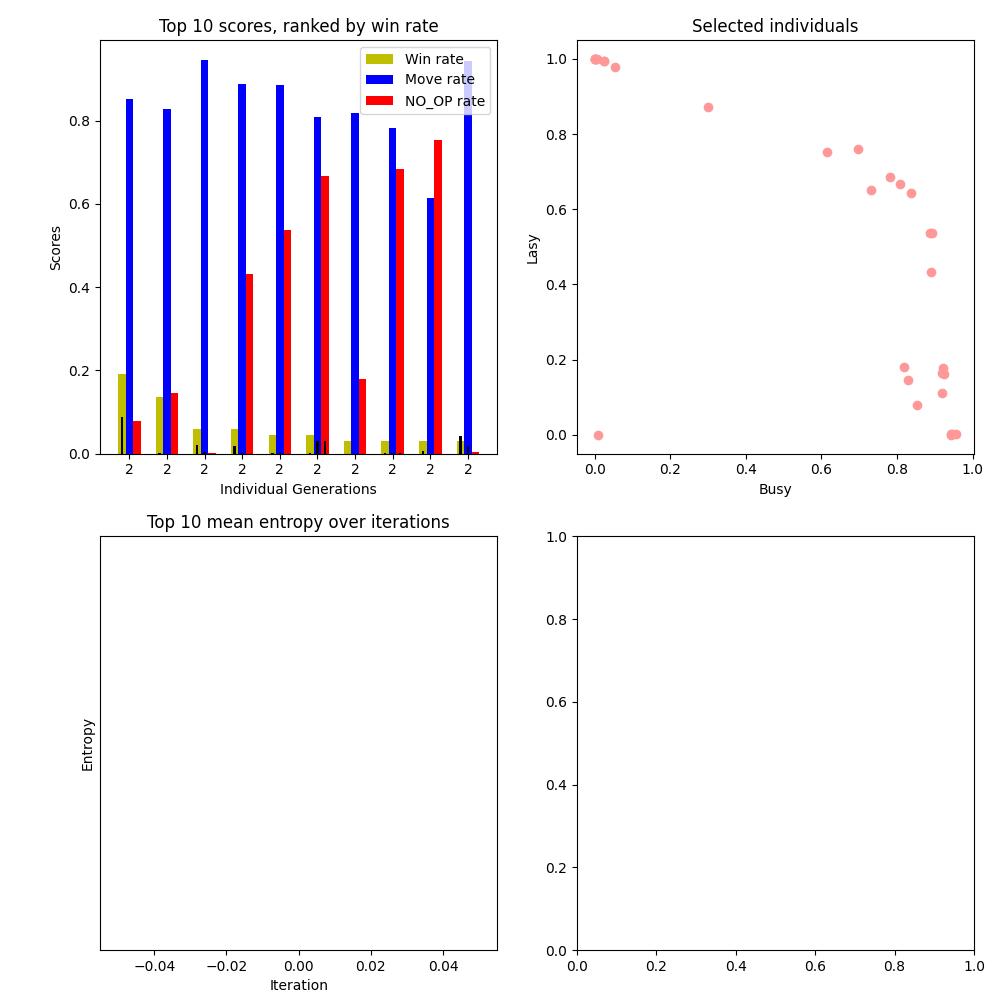
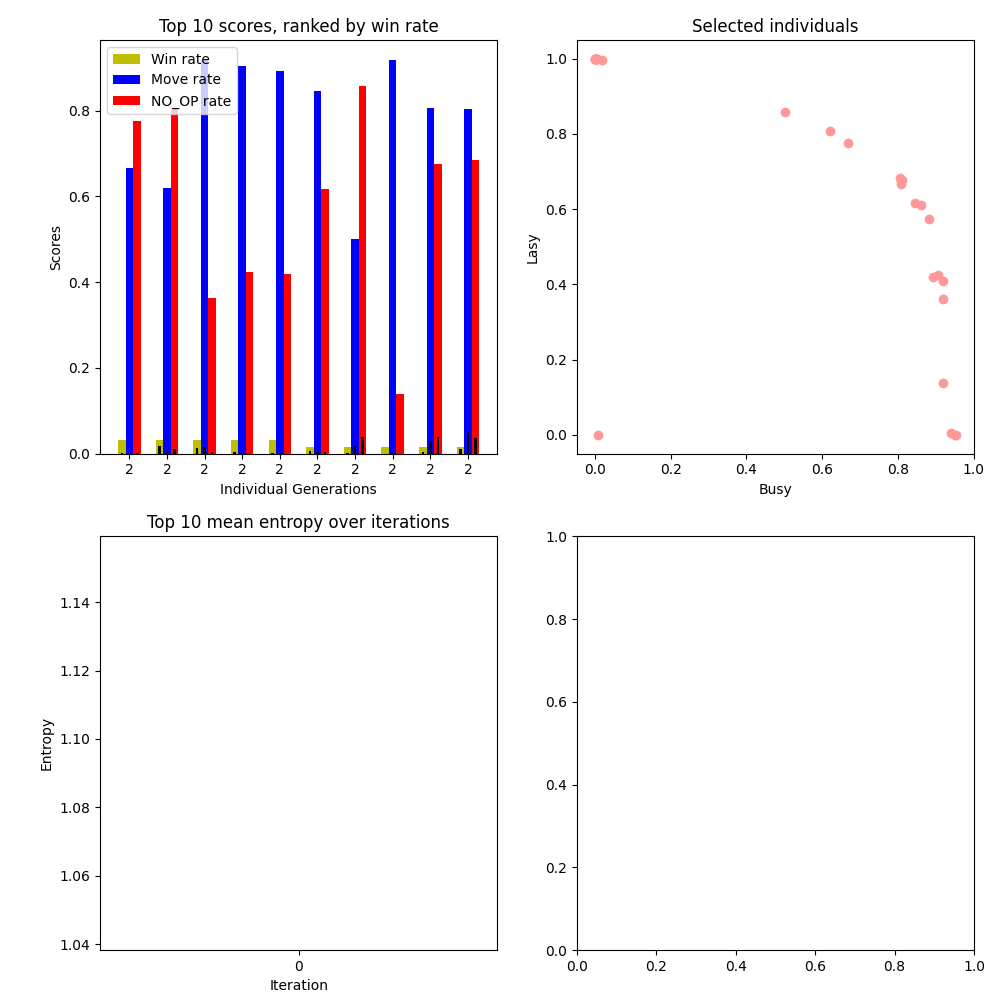
3-18

diff --git a/evolution_server.py b/evolution_server.py
@@ -25,7 +25,7 @@ import socket
 
 class EvolutionServer:
 
-    def __init__(self, ID, env_id='Pong-ram-v0', collector_ip=None, traj_length=128, batch_size=1, max_train=8,
+    def __init__(self, ID, env_id='Pong-ram-v0', collector_ip=None, traj_length=128, batch_size=1, max_train=7,
                  early_stop=7, round_length=200, min_eval=5000, subprocess=True, mutation_rate=0.5):
         if collector_ip is None:
             self.ip = socket.gethostbyname(socket.gethostname())

diff --git a/env_utils.py b/env_utils.py
@@ -38,7 +38,7 @@ class Pong(dict):
         return np.abs(np.float32(obs[4]) - last_pos)
 
     def is_no_op(self, action_id):
-        return action_id in [0]  # no act means no op or no move ?
+        return action_id in [1]  # no act means no op or no move ?
 
 
 name2class = {'Pong-ramNoFrameskip-v4': Pong,

diff --git a/population.py b/population.py
@@ -43,6 +43,7 @@ class LightIndividual:
     def __init__(self, goal_dim, generation=1):
 
         self.reward_weight = log_uniform(0, 3, (goal_dim,), base=10) / 1e3
+        self.reward_weight[0] *= 10
         self.behavior_stats = {}
         self.gen = generation
         self.model_weights = None

diff --git a/optimization.py b/optimization.py
@@ -30,7 +30,7 @@ def is_dominated(x_scores, y_scores):
     return False
 
 
-def nd_sort(scores, n_objectives ):
+def nd_sort(scores, n_objectives):
     """
     builds frontiers, descending sort
     """
